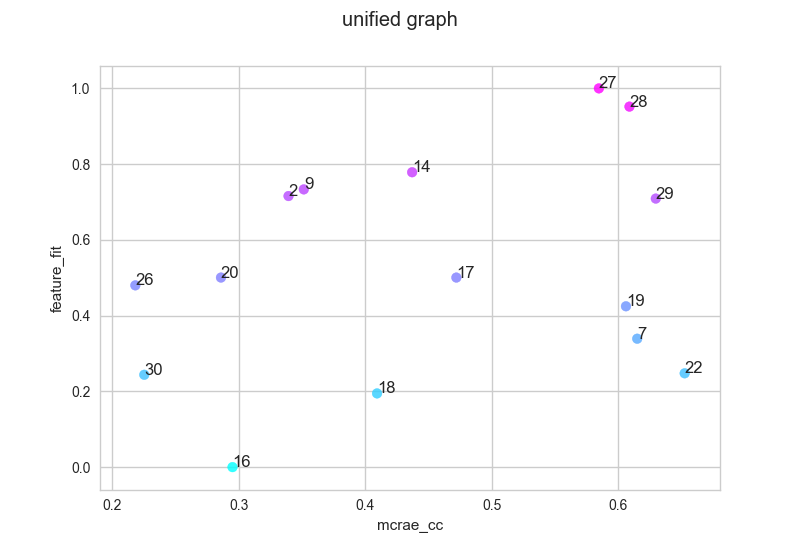
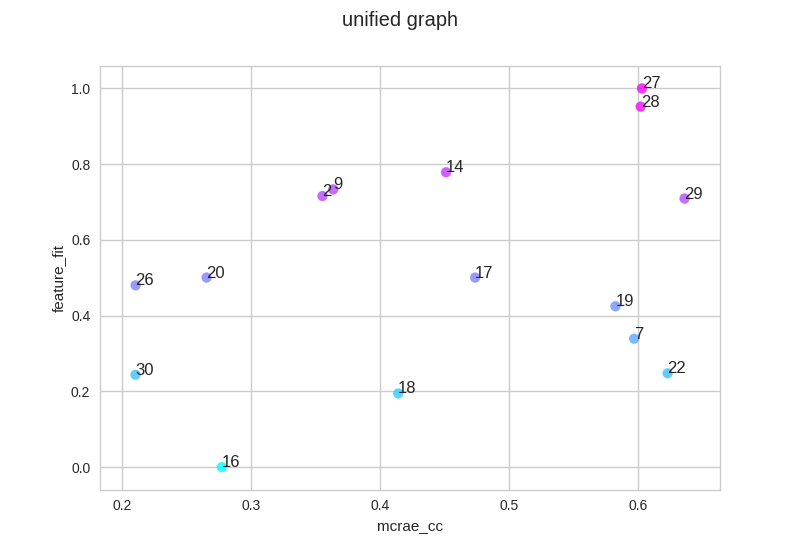
Stage domain plots with very ugly contours

diff --git a/subgraphs/feature_fit.py b/subgraphs/feature_fit.py
@@ -357,19 +357,22 @@ def produce_concept_graphs(fcat_med):
         fig.savefig(fig_path + '-08-60-concepts-perc')
 
 def produce_unified_domain_graph(vocab, features, feature_data):
-    domain_pearson1 = domain_feat_freq.get_average(PEARSON1, 'Concept',
-        'correlation')
-    domain_pearson2 = domain_feat_freq.get_average(PEARSON2, 'Concept',
-        'correlation')
-    assert domain_pearson1.keys() == domain_pearson2.keys()
+    domain_p1_means, domain_p1_vars = \
+            domain_feat_freq.get_average(PEARSON1, 'Concept',
+                                         'correlation')
+    domain_p2_means, domain_p2_vars = \
+            domain_feat_freq.get_average(PEARSON2, 'Concept',
+                                        'correlation')
+    assert domain_p1_means.keys() == domain_p2_means.keys()
 
     feature_map = {feature: weight for feature, _, weight in feature_data}
 
     domain_concepts = get_domains.get_domain_concepts()
+    # TODO: Arbitrary number
     all_domains = sorted([d for d in domain_concepts.keys()
         if len(domain_concepts[d]) > 7])
 
-    xs, ys, zs, labels = [], [], [], []
+    xs, ys, zs, x_vars, y_vars, labels = [], [], [], [], [], []
     for domain in all_domains:
         weights = [feature_map[feature.name]
                    for feature in features.values()
@@ -379,15 +382,16 @@ def produce_unified_domain_graph(vocab, features, feature_data):
         if not weights:
             continue
 
-        xs.append(domain_pearson1[domain])
-        ys.append(domain_pearson2[domain])
+        xs.append(domain_p1_means[domain])
+        ys.append(domain_p2_means[domain])
+        x_vars.append(domain_p1_vars[domain])
+        y_vars.append(domain_p2_vars[domain])
         zs.append(np.median(weights))
         labels.append(domain)
 
     # Resize Z values
     zs = np.array(zs)
     zs = (zs - zs.min()) / (zs.max() - zs.min())
-
 
     # Render Z axis using colors
     colormap = plt.get_cmap("cool")
@@ -416,6 +420,21 @@ def produce_unified_domain_graph(vocab, features, feature_data):
     ax.scatter(xs, ys, c=cs, alpha=0.8)
     for i, d in enumerate(labels):
         ax.annotate(d, (xs[i], ys[i]))
+
+    import matplotlib.mlab as mlab
+    max_abs_x_var = np.abs(x_vars).max()
+    max_abs_y_var = np.abs(y_vars).max()
+    x_samp, y_samp = np.meshgrid(np.linspace(min(xs) - max_abs_x_var,
+                                             max(xs) + max_abs_x_var,
+                                             1000),
+                                 np.linspace(min(ys) - max_abs_y_var,
+                                             max(ys) + max_abs_y_var,
+                                             1000))
+    for domain_x, domain_y, domain_x_var, domain_y_var in zip(xs, ys, x_vars, y_vars):
+        gauss = mlab.bivariate_normal(x_samp, y_samp,
+                                      mux=domain_x, sigmax=domain_x_var,
+                                      muy=domain_y, sigmay=domain_y_var)
+        plt.contour(x_samp, y_samp, gauss, alpha=0.8)
 
     fig_path = os.path.join(GRAPH_DIR, "unified_domain-%s-%s.png" % (PEARSON1_NAME, PEARSON2_NAME))
     fig.savefig(fig_path)

diff --git a/subgraphs/domain_feat_freq.py b/subgraphs/domain_feat_freq.py
@@ -74,7 +74,7 @@ def get_average(input_file, c_string, value):
     concept_domains = get_domains.get_concept_domains()
     domain_concepts = get_domains.get_domain_concepts()
     domain_average = {d: 0 for d in domain_concepts.keys()}
-    domain_variance = {d: [] for d in domain_concepts.keys()}
+    domain_vals = {d: [] for d in domain_concepts.keys()}
     with open(input_file, 'rU') as csvfile:
         reader = csv.DictReader(csvfile, delimiter='\t')
         for row in reader:
@@ -83,13 +83,14 @@ def get_average(input_file, c_string, value):
                 if row[value] == 'n/a':
                     row[value] = 0
                 domain_average[d] += float(row[value])
-                domain_variance[d].append(float(row[value]))
+                domain_vals[d].append(float(row[value]))
     for d in domain_average:
         domain_average[d] /= len(domain_concepts[d])
     # print("Variance of domains for", input_file)
-    # for d in domain_variance:
-    #     print(d, np.var(domain_variance[d]))
-    return domain_average
+    # for d in domain_vals:
+    #     print(d, np.var(domain_vals[d]))
+    domain_variance = {d: np.var(vals) for d, vals in domain_vals.items()}
+    return domain_average, domain_variance
 
 def render_graphs(graph_dir, domain_pearson, domain_wordnet, domains, domain_matrix, fcat_list,
                   colormap="cool"):
@@ -123,9 +124,9 @@ def render_graphs(graph_dir, domain_pearson, domain_wordnet, domains, domain_mat
         print("\n\n")
 
 def main():
-    domain_pearson = get_average(PEARSON, 'Concept',
+    domain_pearson, _ = get_average(PEARSON, 'Concept',
         'correlation')
-    domain_wordnet = get_average(WORDNET, 'concept',
+    domain_wordnet, _ = get_average(WORDNET, 'concept',
         'dendrogram: 0.8; wordnet: 7')
     domain_matrix, domains, fcat_list = get_feat_freqs()
 
